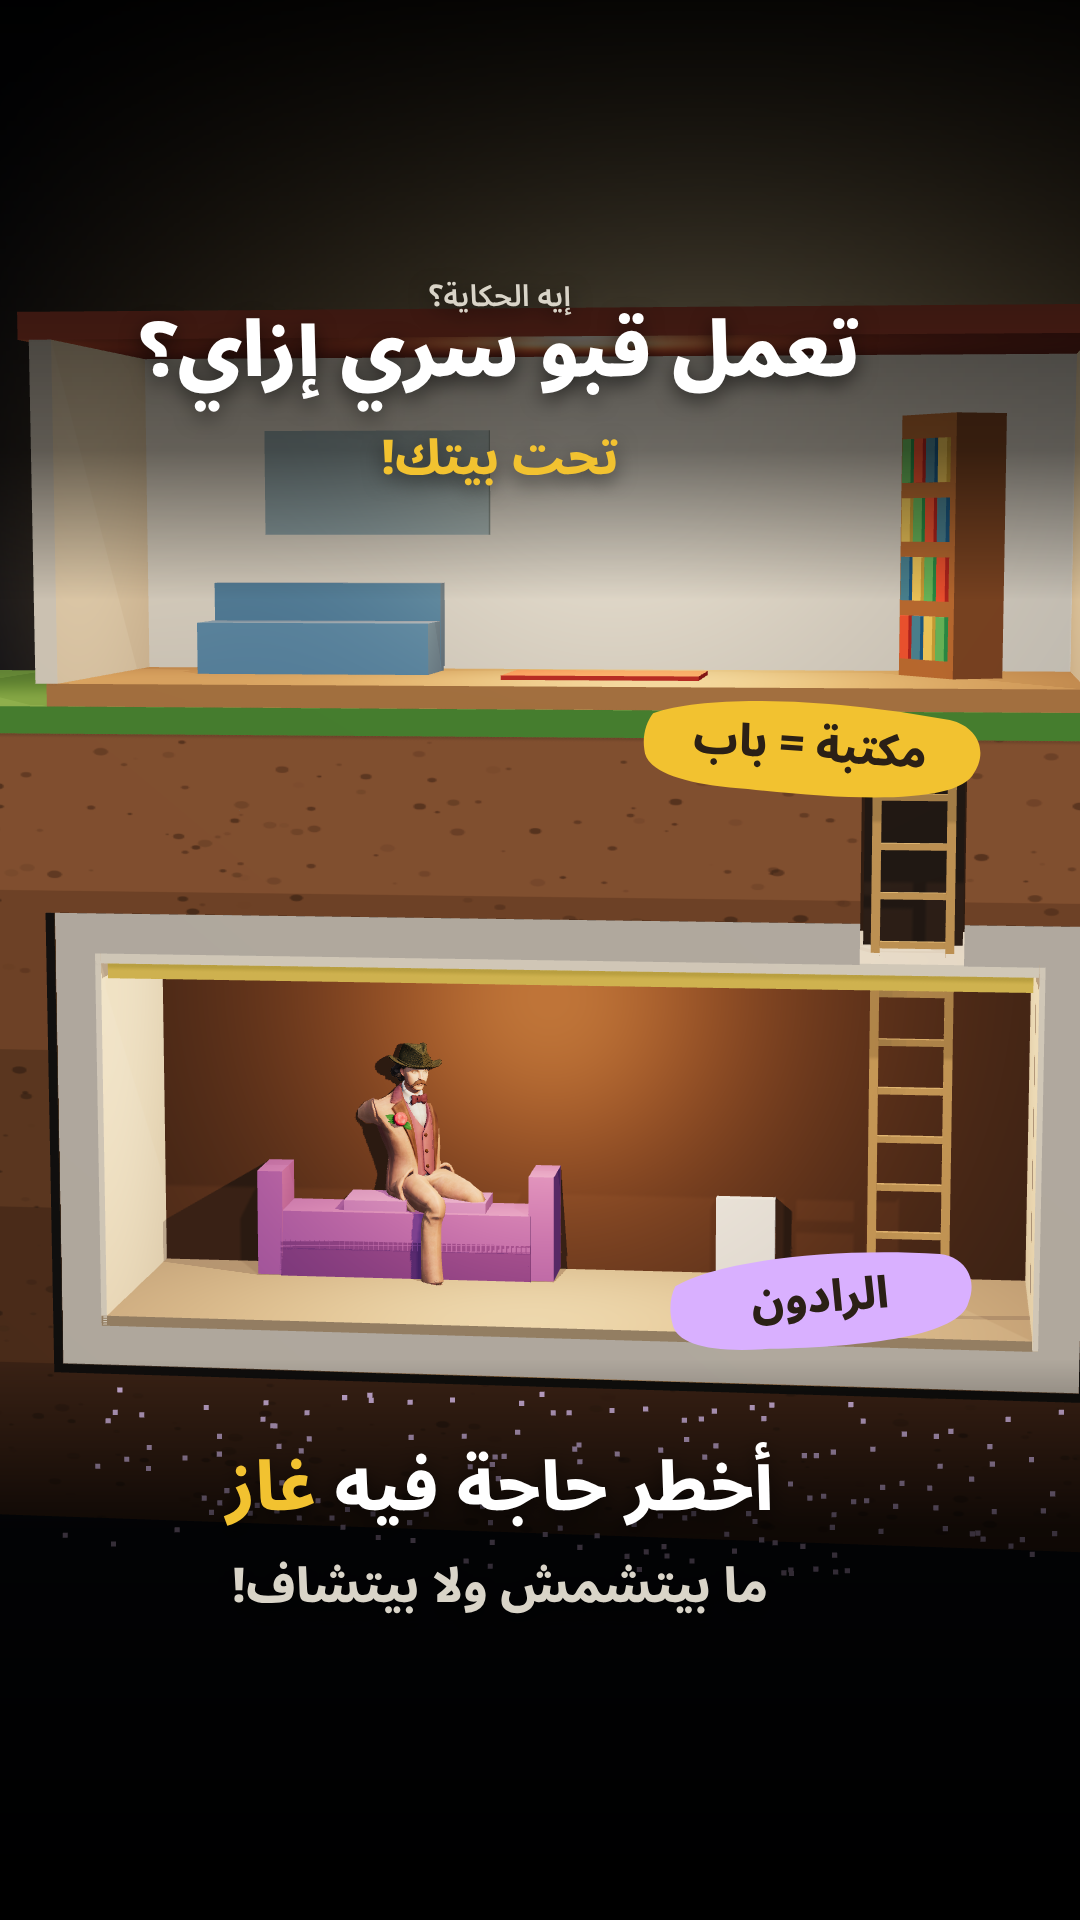
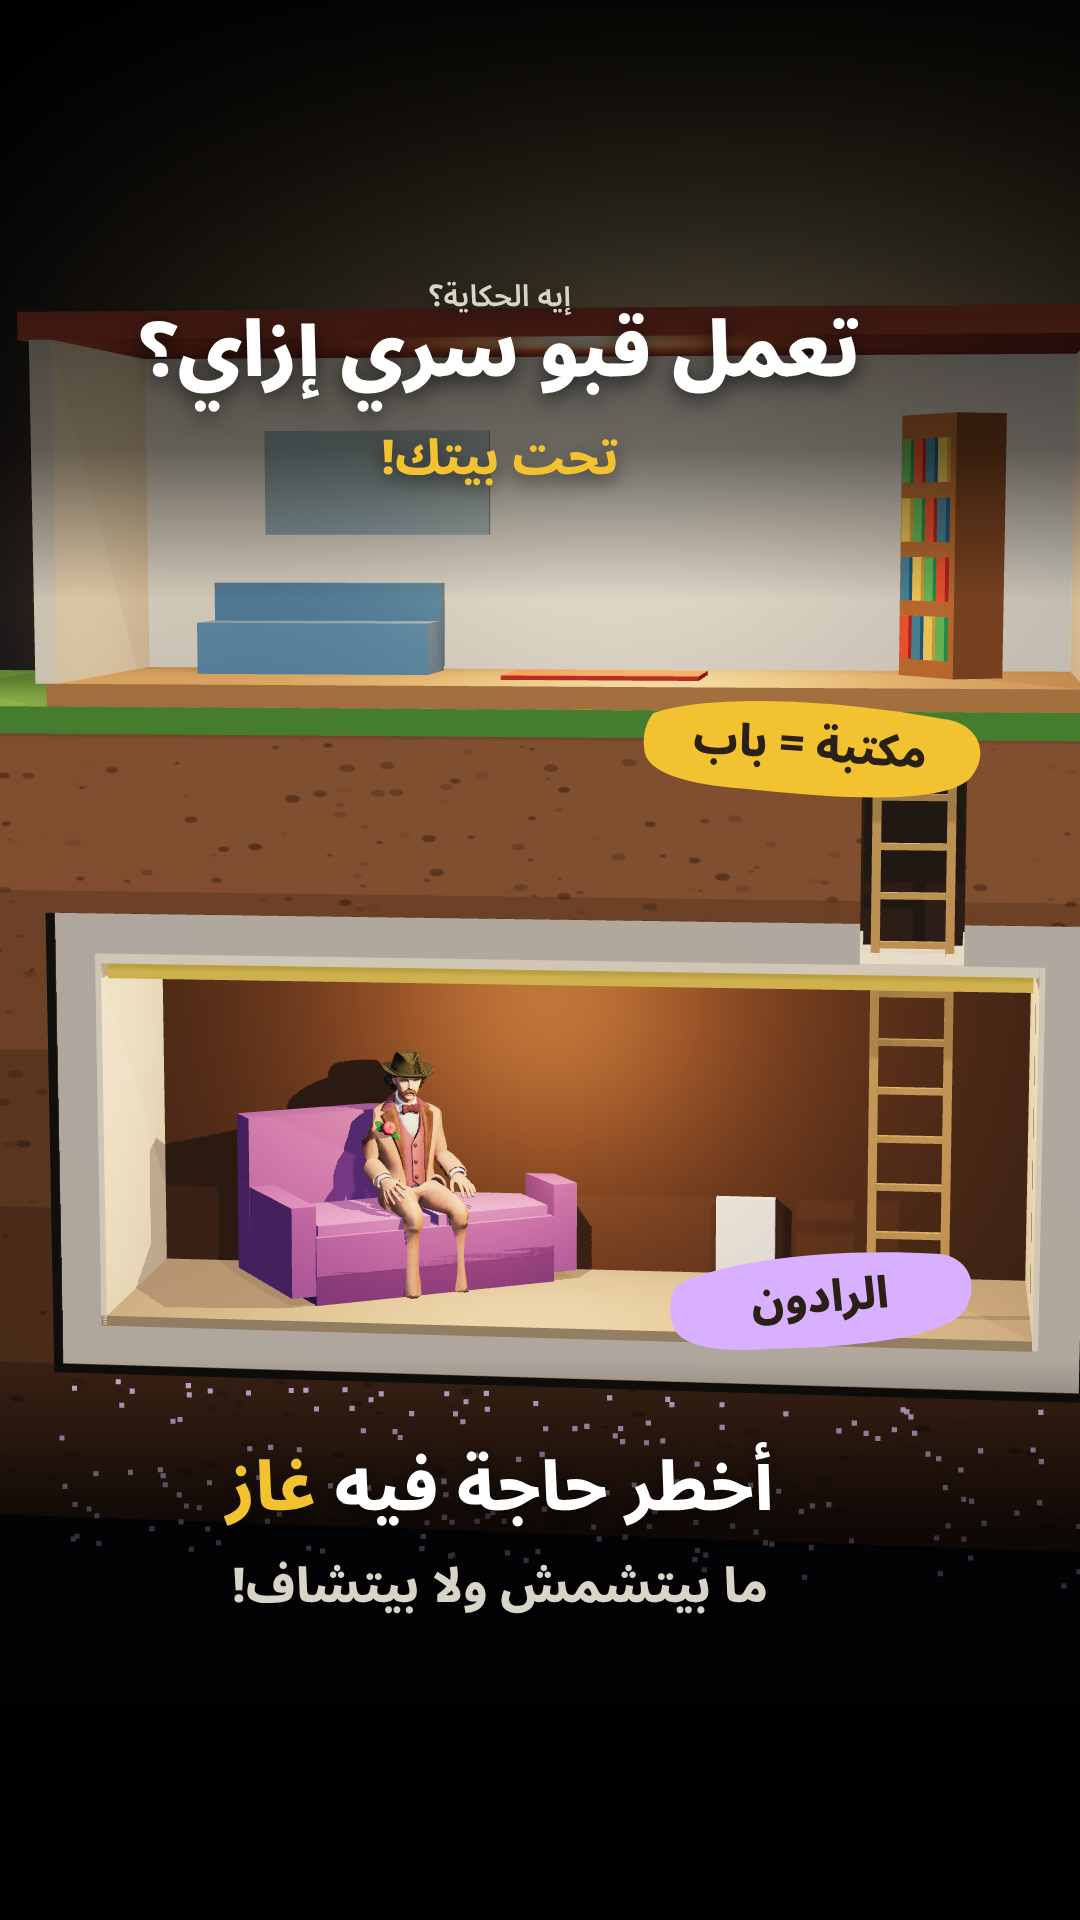
secret-basement cover: sofa and man moved off the back wall, arms posed on the knees
Claude-Session: https://claude.ai/code/session_016TN7FL9NKdQnyLyrZAAig4

Changed region(s): [[0.1222, 0.5312, 0.55, 0.6875], [0.8861, 0.7812, 0.9167, 0.8125], [0.825, 0.7188, 0.8556, 0.75]]

diff --git a/brand/eh-elhekaya/cover-secret-basement-3d-tiktok.html b/brand/eh-elhekaya/cover-secret-basement-3d-tiktok.html
@@ -70,16 +70,18 @@
   // furniture: sofa, dehumidifier, monitor, a person
   const sofaC = std("#8a52a8", { roughness: 0.8 });
   const SEAT = BY1 + 0.36;   // seat top, ~40 cm off the floor (1 unit ≈ 1.1 m: the 20 cm walls are 0.18)
-  add(new THREE.BoxGeometry(1.2, 0.18, 0.56), sofaC, -0.85, SEAT - 0.09, -1.18); add(new THREE.BoxGeometry(1.2, 0.18, 0.56), std("#6a3a88"), -0.85, BY1 + 0.13, -1.18);
-  add(new THREE.BoxGeometry(1.2, 0.5, 0.16), sofaC, -0.85, SEAT + 0.2, -1.42);
-  [-1.5, -0.2].forEach(x => add(new THREE.BoxGeometry(0.12, 0.5, 0.56), sofaC, x, BY1 + 0.3, -1.18));
-  [-1.0, -0.62].forEach(x => add(new THREE.BoxGeometry(0.3, 0.06, 0.48), std("#9a62b8"), x, SEAT + 0.02, -1.18));
+  // the sofa and the man on it are one unit, turned towards the camera and set well clear of the back wall
+  const PX = -0.8, PZ = -0.85, ROT = 0.55, sofa = new THREE.Group(); sofa.position.set(PX, 0, PZ); sofa.rotation.y = ROT; scene.add(sofa);
+  const sbox = (w, h, d, mat, x, y, z) => { const o = new THREE.Mesh(new THREE.BoxGeometry(w, h, d), mat); o.position.set(x, y, z); o.castShadow = o.receiveShadow = true; sofa.add(o); return o; };
+  sbox(1.2, 0.18, 0.56, sofaC, 0, SEAT - 0.09, 0); sbox(1.2, 0.18, 0.56, std("#6a3a88"), 0, BY1 + 0.13, 0);
+  sbox(1.44, 0.55, 0.16, sofaC, 0, SEAT + 0.2, -0.36);
+  [-0.66, 0.66].forEach(x => sbox(0.12, 0.42, 0.72, sofaC, x, BY1 + 0.3, -0.08));
+  [-0.3, 0.3].forEach(x => sbox(0.56, 0.06, 0.5, std("#9a62b8"), x, SEAT + 0.02, 0.0));
   add(new THREE.BoxGeometry(0.28, 0.4, 0.22), std("#eef0f2", { roughness: 0.4 }), 0.75, BY1 + 0.22, -1.25);
   add(new THREE.BoxGeometry(0.62, 0.38, 0.03), std("#1e2226", { roughness: 0.3 }), -0.2, BY0 - 0.55, -1.56);
   add(new THREE.PlaneGeometry(0.56, 0.32), new THREE.MeshBasicMaterial({ color: "#5aa8d8" }), -0.2, BY0 - 0.55, -1.54, false);
   // a real person sitting on the sofa: the Ready Player Me avatar from the three.js examples (models/person.glb),
   // posed by turning its skeleton's joints (hips on the seat, knees bent, one hand on the lap, the other holding a phone)
-  const PX = -0.85, PZ = -1.18;
   const POSE = {
     LeftUpLeg: [-1.45, 0, 0.06], RightUpLeg: [-1.45, 0, -0.06], LeftLeg: [-1.5, 0, 0], RightLeg: [-1.45, 0, 0], LeftFoot: [0, 0, 0], RightFoot: [0, 0, 0],
     Spine: [-0.08, 0, 0], Spine1: [0.04, 0, 0], Spine2: [0.04, 0, 0], Neck: [0.1, 0, 0], Head: [0.05, -0.2, 0],
@@ -90,9 +92,12 @@
     const box = new THREE.Box3().setFromObject(m), h = box.max.y - box.min.y; m.scale.setScalar(1.5 / h);   // ~1.65 m tall
     const bone = n => m.getObjectByName(n);
     for (const k in POSE) { const b = bone(k); if (b) { b.rotation.x += POSE[k][0]; b.rotation.y += POSE[k][1]; b.rotation.z += POSE[k][2]; } }
-    m.rotation.y = 0.75; scene.add(m); m.updateMatrixWorld(true);
-    const hp = new THREE.Vector3(); bone("Hips").getWorldPosition(hp); m.position.x += PX - hp.x; m.position.z += PZ - hp.z; m.position.y += SEAT + 0.1 - hp.y;
-    m.updateMatrixWorld(true); window.__bone = bone; res(m);
+    // arms set absolutely (angles solved so the upper arm hangs by the side and the forearm lies forward along the thigh)
+    const ARMS = { LeftArm: [-1.8, -3.1, -3.1], LeftForeArm: [1.8, 2.7, -1.6], RightArm: [-1.8, 0.1, -3.1], RightForeArm: [0.7, 2.9, -1.2] };
+    for (const k in ARMS) bone(k).rotation.set(ARMS[k][0], ARMS[k][1], ARMS[k][2]);
+    m.rotation.y = ROT; scene.add(m); m.updateMatrixWorld(true);
+    const hp = new THREE.Vector3(); bone("Hips").getWorldPosition(hp); const seatAt = new THREE.Vector3(0, 0, -0.08).applyAxisAngle(new THREE.Vector3(0, 1, 0), ROT); m.position.x += PX + seatAt.x - hp.x; m.position.z += PZ + seatAt.z - hp.z; m.position.y += SEAT + 0.1 - hp.y;
+    m.updateMatrixWorld(true); window.__bone = bone; window.__m = m; res(m);
   }));
   // purple radon specks rising through the soil under the floor
   const rp = []; for (let i = 0; i < 160; i++) rp.push((Math.random() - 0.5) * 4.6, BY1 - 0.25 - Math.random() * 0.8, (Math.random()) * 0.04 + 0.01);
@@ -121,6 +126,9 @@
   const halo = new THREE.Sprite(new THREE.SpriteMaterial({ map: moonT, transparent: true, depthWrite: false, fog: false })); halo.scale.set(11, 11, 1); halo.position.set(0, 1.4, -9); scene.add(halo);
   const key = new THREE.DirectionalLight("#ffd9b0", 1.1); key.position.set(3, 6, 6); key.castShadow = true; key.shadow.mapSize.set(2048, 2048); Object.assign(key.shadow.camera, { left: -5, right: 5, top: 5, bottom: -5 }); scene.add(key);
   scene.add(new THREE.HemisphereLight("#6a7aa0", "#20140c", 0.45));
+  const hideUI = () => { document.getElementById("over").style.display = "none"; document.querySelectorAll(".t").forEach(e => e.style.display = "none"); };
+  if (location.hash === "#near") { const tgt = new THREE.Vector3(PX, SEAT + 0.3, PZ), dir = cam.position.clone().sub(tgt).normalize(); cam.position.copy(tgt).addScaledVector(dir, 2.4); cam.lookAt(tgt); hideUI(); }
+  if (location.hash === "#top") { cam.position.set(PX, SEAT + 3, PZ + 0.01); cam.lookAt(PX, SEAT, PZ); cam.fov = 45; cam.updateProjectionMatrix(); hideUI(); scene.children.forEach(o => { if (o.isMesh && o.position.y > BY0 - 0.1) o.visible = false; }); }
   if (location.hash === "#side") { cam.position.set(PX + 2.2, SEAT + 0.4, PZ + 0.3); cam.lookAt(PX, SEAT + 0.2, PZ + 0.1); cam.fov = 45; cam.updateProjectionMatrix(); document.getElementById("over").style.display = "none"; document.querySelectorAll(".t").forEach(e => e.style.display = "none"); scene.children.filter(o => o.isMesh && o.position.x > PX + 0.3 && o.position.x < 3 && o.position.z > -1.0).forEach(o => o.visible = false); }
   if (location.hash === "#close") { cam.position.set(PX + 0.6, SEAT + 0.5, 1.8); cam.lookAt(PX, SEAT + 0.2, PZ); cam.fov = 45; document.getElementById("over").style.display = "none"; document.querySelectorAll(".t").forEach(e => e.style.display = "none"); cam.updateProjectionMatrix(); }
   personReady.then(() => { r.render(scene, cam); window.READY = true; });
